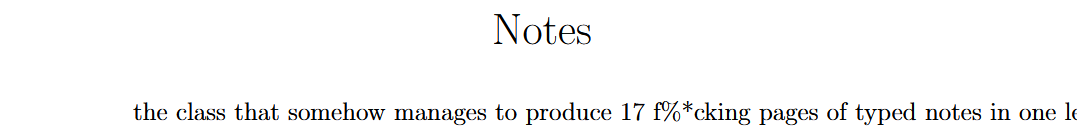
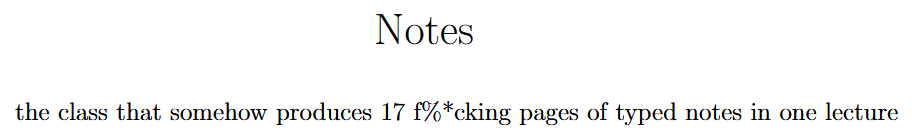
allow non-full-width tables in posts

Changed region(s): [[0.0, 0.7328, 1.0, 0.9771], [0.3991, 0.0916, 0.5526, 0.3359]]

diff --git a/app/blog/static/blogpage/js/post_display_customization.js b/app/blog/static/blogpage/js/post_display_customization.js
@@ -3,21 +3,13 @@ function applyPostAndCommentStyles(baseSelector) {
     if (jQBase.length === 0) {
         return;
     }
-    const jQPostContent = jQBase.find("#post__content");
-    const jQCommentContent = jQBase.find(".comment__content");
-    const jQPostAndCommentContent = $.merge(jQPostContent, jQCommentContent);
+    const jQPostAndCommentContent = jQBase.find("#post__content, .comment__content");
 
     // add CSS classes for extra styling
-    jQPostContent.find("h1").addClass("post__h1 ");
-    jQPostContent.find("h2").addClass("post__h2");
-    jQPostContent.find("h3").addClass("post__h3");
-    jQPostContent.find("img").addClass("post__img");
-    jQCommentContent.find("h1").addClass("comment__h1");
-    jQCommentContent.find("h2").addClass("comment__h2");
-    jQCommentContent.find("img").addClass("comment__img");
-    jQPostAndCommentContent.find(".post__h1, .comment__h1").addClass("mb-3 border-b--h1 fs-3");
-    jQPostAndCommentContent.find(".post__h2, .comment__h2").addClass("mb-3 border-b--h2 fs-5");
-    jQPostAndCommentContent.find(".post__h3, .comment__h3").addClass("mb-3 fs-6");
+    jQPostAndCommentContent.find("h1").addClass("custom-green-deep-dark mb-3 border-b--h1 fs-3");
+    jQPostAndCommentContent.find("h2").addClass("custom-orange-deep mb-3 border-b--h2 fs-5");
+    jQPostAndCommentContent.find("h3").addClass("mb-3 fs-6");
+    jQPostAndCommentContent.find("img").addClass("post__img");
 }
 
 function addCommentSyntaxGuideTooltip() {

diff --git a/app/blog/static/blogpage/css/style.css b/app/blog/static/blogpage/css/style.css
@@ -136,12 +136,15 @@ input[value="Reply"][value="Delete"] {
     font-size: 1.15rem;
 }
 
-.post__h1 {
-    color: var(--custom-green-deep-dark);
+.post__content table {
+    margin-right: auto;
+    margin-left: auto;
 }
 
-.post__h2 {
-    color: var(--custom-orange-deep);
+/* tables that don't specify pixel (and thus non-relative) widths on columns fill up whole width */
+/* can still specify relative percentage widths between cols, with the whole table being `min-width: 100%` of parent */
+.post__content table:not(:has(th[width$="px"], td[width$="px"])) {
+    min-width: 100%;
 }
 
 .post__img {

diff --git a/app/static/css/util.css b/app/static/css/util.css
@@ -253,6 +253,10 @@
     border-bottom-style: solid !important;
 }
 
+.border-b--3px {
+    border-bottom-width: 3px !important;
+}
+
 .border-b--h1 {
     border-bottom: 3px solid var(--custom-green-deep-dark) !important;
     padding-bottom: 0.5rem !important;
@@ -308,6 +312,9 @@
 
 .border--lightgray {
     border-color: lightgray !important;
+}
+
+.border-r--3px {
 }
 
 /*********/

diff --git a/app/static/js/mathjax_config.js b/app/static/js/mathjax_config.js
@@ -22,6 +22,7 @@ window.MathJax = {
             arcsec: "\\operatorname{arcsec}",
             Aut: "\\operatorname{Aut}",
             C: "\\mathbb{C}",
+            comma: ",\\ ",
             ceil: ["\\left\\lceil #1 \\right\\rceil", 1],
             choose: ["\\begin{pmatrix} #1 \\\\ #2 \\end{pmatrix}", 2],
             codom: ["\\operatorname{codom}"],

diff --git a/app/static/css/style.css b/app/static/css/style.css
@@ -70,11 +70,8 @@ pre {
 }
 
 table {
-    margin-right: auto;
     margin-bottom: 0.5rem;
-    margin-left: auto;
     width: max-content;
-    min-width: 100%;
 }
 
 td,

diff --git a/README.md b/README.md
@@ -146,6 +146,7 @@ Keep up-to-date:
 ### Tables:
 - Uses [Markdown tables](https://www.tablesgenerator.com/markdown_tables#) with "Compact mode" and "Line breaks as \<br\>" checked
 - For merged cells, use the [Attribute Lists](https://python-markdown.github.io/extensions/attr_list/) extension to set `colspan`. To keep valid table syntax, put `<span></span> {: hidden }` in cells that have been merged into other ones.
+- To specify column `width` attributes (in HTML, not CSS) for example with Attribute Lists, either specify in pixels or percentages. Pixels are absolute while percentages are relative to the width of the table. If percentages are used, or if no width specified at all, table will have `min-width: 100%` of parent div.
 
 # Cookie explanation from empirical observations and devtools
 
